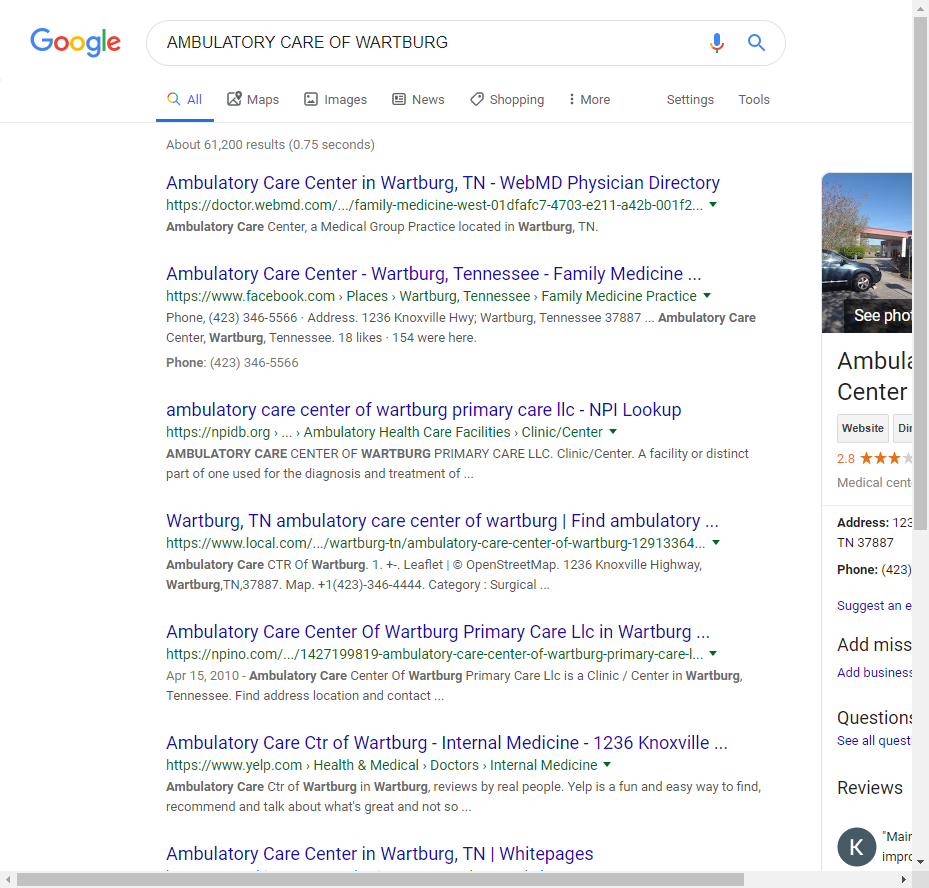
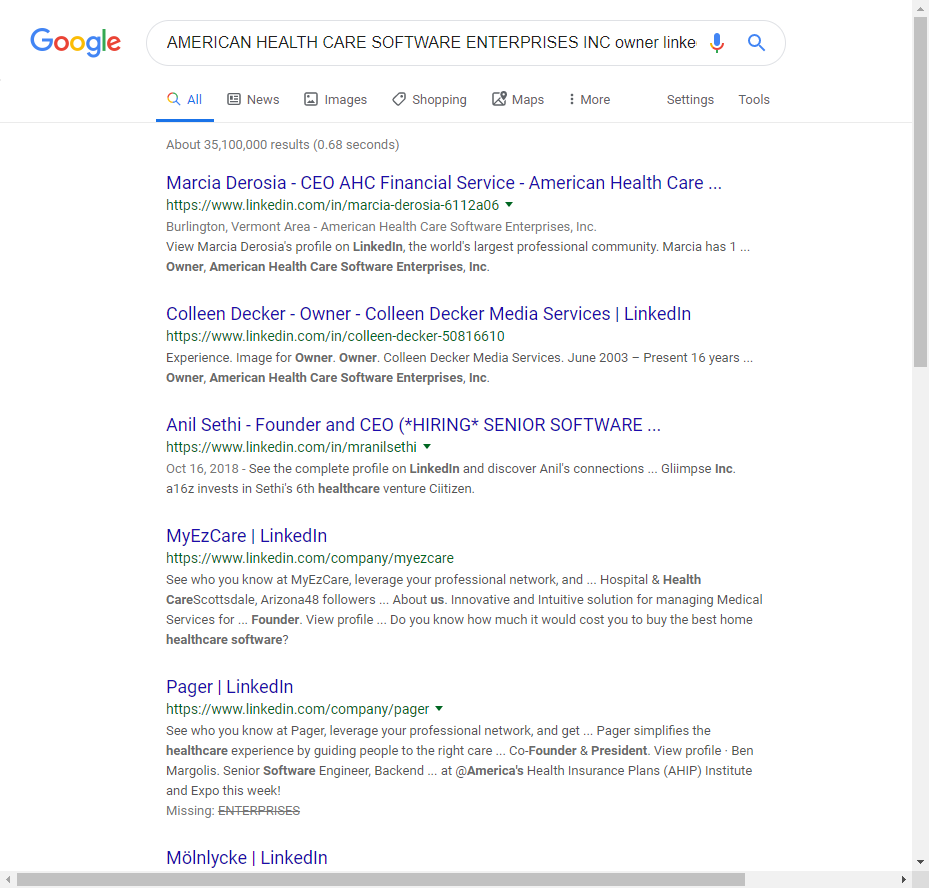
Draft importing from csv

diff --git a/sales.py b/sales.py
@@ -14,63 +14,42 @@ CHROMEDRIVER_PATH = "c:\Repo\chromedriver\chromedriver"
 
 driver = webdriver.Chrome(CHROMEDRIVER_PATH)
 
-# NAVIGATE TO GOOGLE.COM...
+csv_file_path = os.path.join(os.path.dirname(__file__), "data", "source.csv") # a relative filepath
 
-driver.get("https://www.google.com/")
-#driver.get("https://www.buzzfile.com/Home/Basic") #https://www.buzzfile.com/Home/Basic
-print(driver.title) #> Google
-driver.save_screenshot("search_page.png")
+with open(csv_file_path, "r") as source: # "r" means "open the file for reading"
+    reader = csv.reader(source) # if your CSV doesn't have headers
+    companies = list(reader)
 
-# FIND AN ELEMENT TO INTERACT WITH...
-# a reference to the HTML element:
-# <input title="Search">
+#companies = ["AMERICAN HEALTH CARE SOFTWARE ENTERPRISES INC", "AMBULATORY CARE OF WARTBURG"]
 
-searchbox_xpath = '//input[@title="Search"]'
-#searchbox_xpath = '//input[@value=""]'
-#searchbox_xpath = '//input[@placeholder="SearchbyCompanyName"]'
-#searchbox = driver.find_element_by_name('searchTerm')
-searchbox = driver.find_element_by_xpath(searchbox_xpath)
-
-# INTERACT WITH THE ELEMENT
-
-companies = [
-    {"id":1, "name": "AMERICAN HEALTH CARE SOFTWARE ENTERPRISES INC"},
-    {"id":2, "name": "AMBULATORY CARE OF WARTBURG"}
-]
-
-for p in companies:
-    search_term = (p["name"])
-
-#search_term = companies["id"]
-searchbox.send_keys(search_term)
-
-searchbox.send_keys(Keys.RETURN)
-#print(driver.title) #> 'Prof Rossetti GitHub - Google Search'
-driver.save_screenshot("search_results.png")
-
-soup = BeautifulSoup(driver.page_source, features = "lxml")
-#soup = BeautifulSoup(driver.page_source, 'html.parser')
-companylinks = soup.find_all("div", "r")
-#companylinks = soup.find_all("span", "company-trade-style") # class name and what class equals
-
-title = soup.title
-
-results = soup.h3
-print(results)
+print(companies)
 
 csv_file_path = os.path.join(os.path.dirname(__file__), "data", "contacts.csv")
-
 csv_headers = ["company name", "results"]
+    
 
-with open(csv_file_path, "w") as csv_file:
-    writer = csv.DictWriter(csv_file, fieldnames=csv_headers)
-    writer.writeheader() # uses fieldnames set above
-    writer.writerow({
-        "company name": title,
-        "results": results, 
-        })
-
-#linkedin = companylinks["a href"]
-#print(linkedin)
+for search_term in companies:
+    #navigate to google
+    driver.get("https://www.google.com/")
+    print(driver.title) #> Google
+    searchbox_xpath = '//input[@title="Search"]'
+    searchbox = driver.find_element_by_xpath(searchbox_xpath)
+    # INTERACT WITH THE ELEMENT
+    print(search_term)
+    searchbox.send_keys(search_term + " owner linkedin owner")
+    searchbox.send_keys(Keys.RETURN)
+    #scrape the results
+    soup = BeautifulSoup(driver.page_source, features = "lxml")
+    title = soup.title
+    results = soup.h3
+    print(results)
+    with open(csv_file_path, "a") as csv_file:
+        writer = csv.DictWriter(csv_file, fieldnames=csv_headers)
+        writer.writeheader() # uses fieldnames set above
+        writer.writerow({
+            "company name": search_term,
+            "results": results, 
+            })
+    
 
 #driver.quit()

diff --git a/sales-leads.py b/sales-leads.py
@@ -1,0 +1,61 @@
+import csv
+from selenium import webdriver
+from selenium.webdriver.common.keys import Keys
+import requests
+from bs4 import BeautifulSoup
+import time
+import json
+from html.parser import HTMLParser
+import os
+
+#initialize driver
+
+CHROMEDRIVER_PATH = "c:\Repo\chromedriver\chromedriver"
+
+driver = webdriver.Chrome(CHROMEDRIVER_PATH)
+
+companies = ["AMERICAN HEALTH CARE SOFTWARE ENTERPRISES INC owner linkedin owner", "AMBULATORY CARE OF WARTBURG"]
+
+csv_file_path = os.path.join(os.path.dirname(__file__), "data", "contacts.csv")
+csv_headers = ["company name", "results"]
+    
+
+for search_term in companies:
+    #navigate to google
+    driver.get("https://www.google.com/")
+    #driver.get("https://www.buzzfile.com/Home/Basic") #https://www.buzzfile.com/Home/Basic
+    print(driver.title) #> Google
+    #driver.save_screenshot("search_page.png")
+    # FIND AN ELEMENT TO INTERACT WITH...
+    # a reference to the HTML element:
+    # <input title="Search">
+    searchbox_xpath = '//input[@title="Search"]'
+    #searchbox_xpath = '//input[@value=""]'
+    #searchbox_xpath = '//input[@placeholder="SearchbyCompanyName"]'
+    #searchbox = driver.find_element_by_name('searchTerm')
+    searchbox = driver.find_element_by_xpath(searchbox_xpath)
+    # INTERACT WITH THE ELEMENT
+    print(search_term)
+    searchbox.send_keys(search_term)
+    searchbox.send_keys(Keys.RETURN)
+    #print(driver.title) #> 'Prof Rossetti GitHub - Google Search'
+    #driver.save_screenshot("search_results.png")
+    soup = BeautifulSoup(driver.page_source, features = "lxml")
+    #soup = BeautifulSoup(driver.page_source, 'html.parser')
+    companylinks = soup.find_all("div", "r")
+    #companylinks = soup.find_all("span", "company-trade-style") # class name and what class equals
+    title = soup.title
+    results = soup.h3
+    print(results)
+    with open(csv_file_path, "a") as csv_file:
+        writer = csv.DictWriter(csv_file, fieldnames=csv_headers)
+        writer.writeheader() # uses fieldnames set above
+        writer.writerow({
+            "company name": title,
+            "results": results, 
+            })
+    
+#linkedin = companylinks["a href"]
+#print(linkedin)
+
+#driver.quit()
